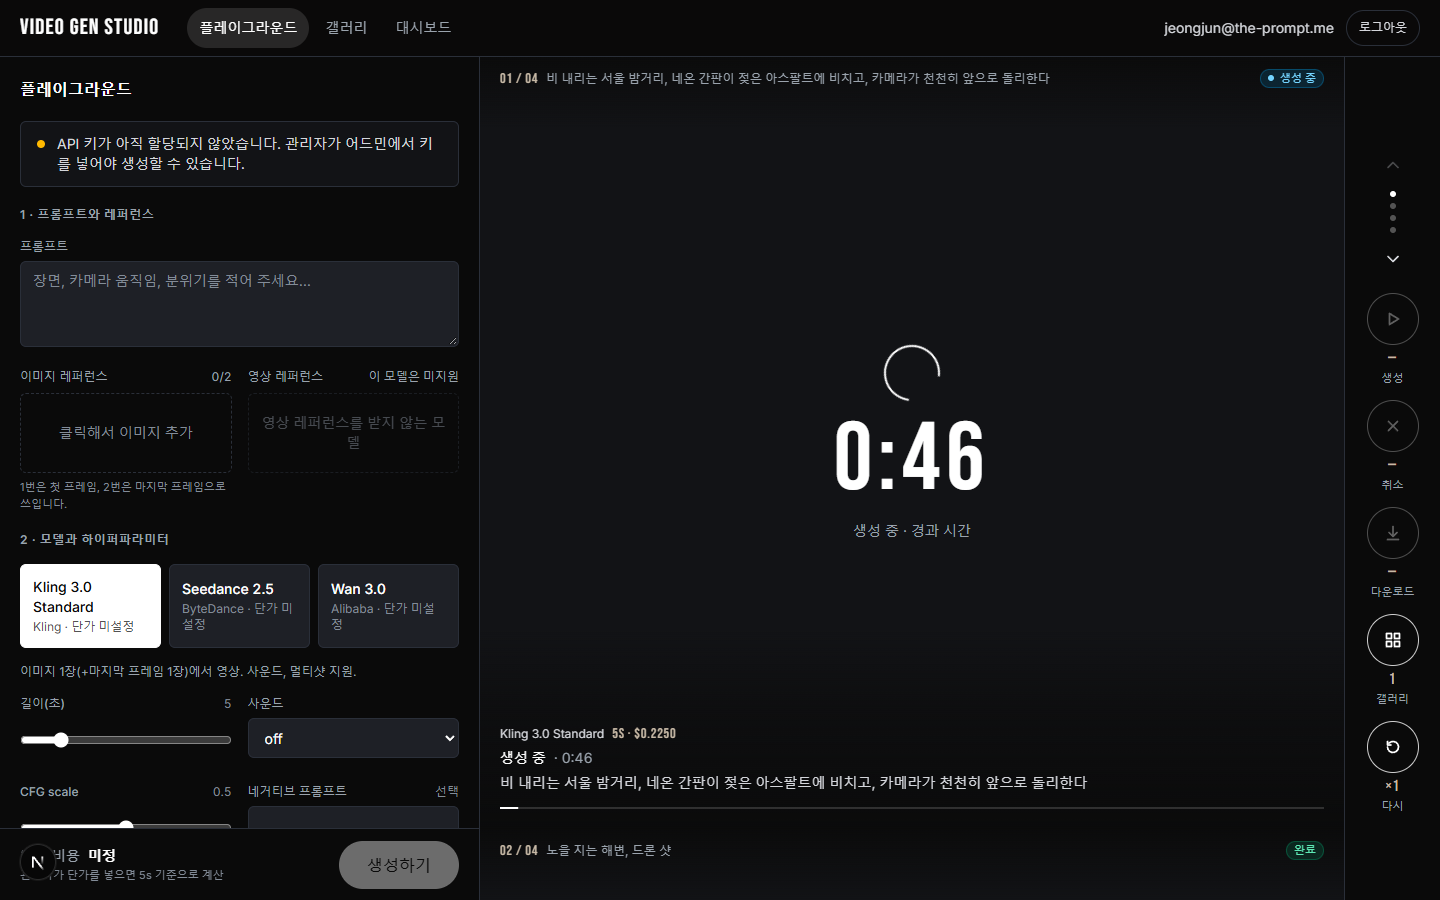
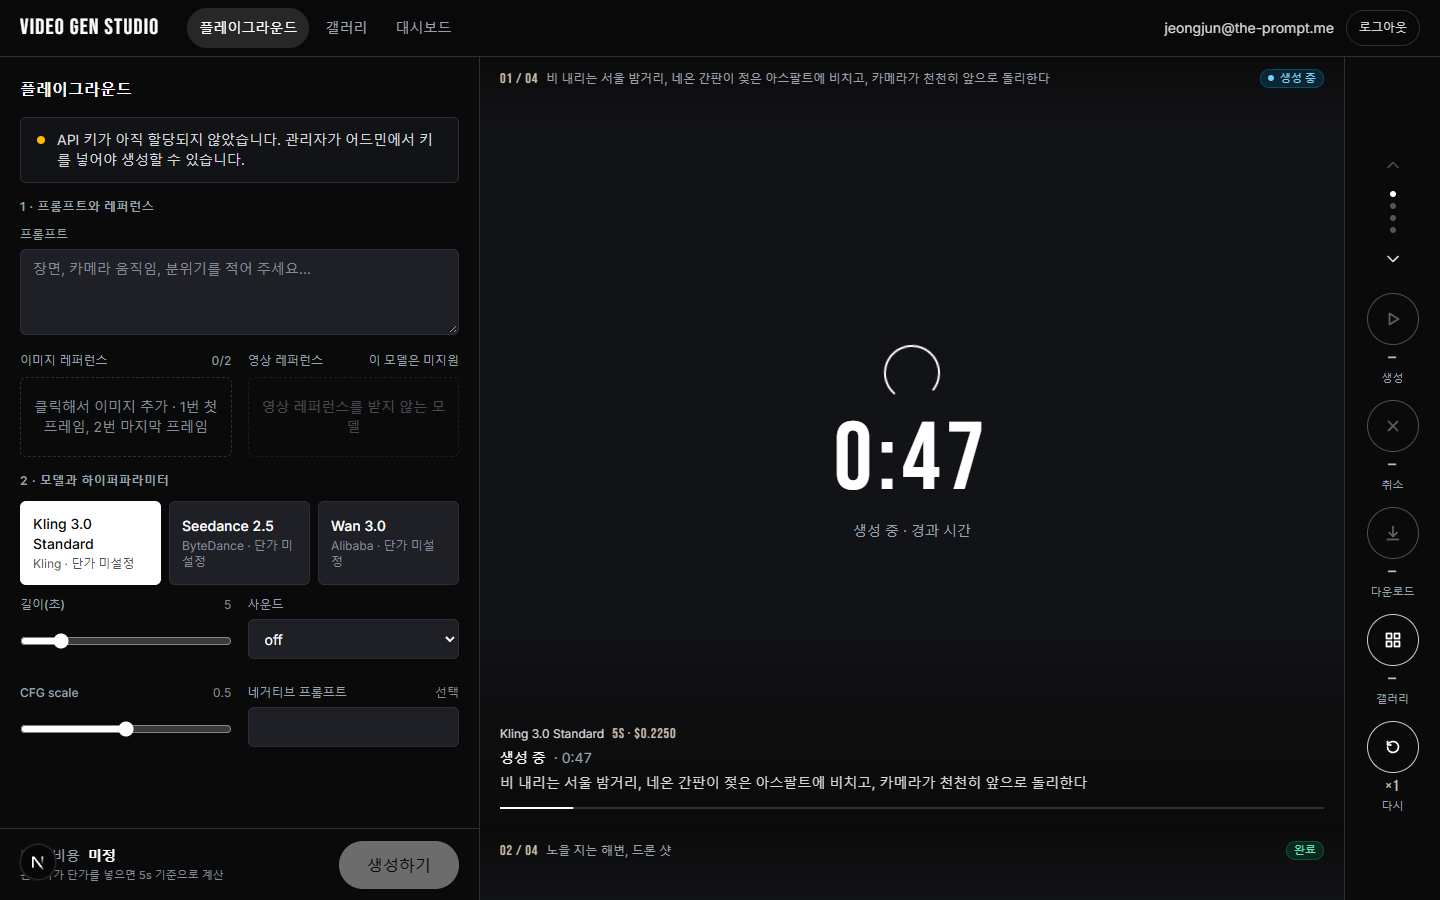
[수정] 갤러리 카운터를 실제 완료 건수로, 서랍 파라미터를 900px 안에
왜: 리뷰 판정에서 갤러리 카운터가 로드된 피드 안의 수였고, CFG·네거티브 프롬프트가 비용 바 아래로 잘렸다
무엇:
- playground/page.tsx: 사용자의 완료 생성 수를 DB에서 세어 galleryCount로 전달
- Playground.tsx: 갤러리 카운터는 서버 합계 + 세션 중 완료 전환 시 증가
- Playground.tsx: 모델 설명 문단 제거(카드 title로), 프레임 힌트를 업로드 존 문구로, 섹션 간격 축소
검증: npx tsc --noEmit 오류 없음, eslint 0 errors, 1440x900에서 비용 바 상단 828px 대비 마지막 컨트롤 하단 757px, 재캡처 가로 넘침 0·콘솔 오류 0

diff --git a/src/components/Playground.tsx b/src/components/Playground.tsx
@@ -182,7 +182,7 @@ function FeedItem({ g, index, total, active, now, modelName }: { g: PublicGenera
   );
 }
 
-export function Playground({ models, hasApiKey, largeUploads }: { models: ModelWithPrice[]; hasApiKey: boolean; largeUploads: boolean }) {
+export function Playground({ models, hasApiKey, largeUploads, galleryCount }: { models: ModelWithPrice[]; hasApiKey: boolean; largeUploads: boolean; galleryCount: number }) {
   const [modelId, setModelId] = useState(models[0]?.id ?? "");
   const model = useMemo(() => models.find((m) => m.id === modelId) ?? models[0], [models, modelId]);
   const [params, setParams] = useState<Record<string, unknown>>(() => (model ? defaultParams(model) : {}));
@@ -198,8 +198,14 @@ export function Playground({ models, hasApiKey, largeUploads }: { models: ModelW
   const [now, setNow] = useState(() => Date.now());
   const feedRef = useRef<HTMLDivElement>(null);
 
+  const [galleryTotal, setGalleryTotal] = useState(galleryCount);
+
   function upsert(item: PublicGeneration) {
-    setItems((list) => (list.some((x) => x.id === item.id) ? list.map((x) => (x.id === item.id ? item : x)) : [item, ...list].slice(0, FEED_LIMIT)));
+    setItems((list) => {
+      const prev = list.find((x) => x.id === item.id);
+      if (item.status === "completed" && prev && prev.status !== "completed") setGalleryTotal((n) => n + 1);
+      return prev ? list.map((x) => (x.id === item.id ? item : x)) : [item, ...list].slice(0, FEED_LIMIT);
+    });
   }
 
   useEffect(() => {
@@ -350,7 +356,6 @@ export function Playground({ models, hasApiKey, largeUploads }: { models: ModelW
   const canCancel = Boolean(active && active.status === "queued");
   const activeStarted = active ? new Date(active.createdAt).getTime() : 0;
   const activeIndex = active ? items.findIndex((i) => i.id === active.id) : -1;
-  const completedCount = items.filter((i) => i.status === "completed").length;
   const reuseCount = active ? items.filter((i) => i.prompt === active.prompt && i.modelId === active.modelId).length : 0;
   function goTo(i: number) {
     const feed = feedRef.current;
@@ -404,14 +409,14 @@ export function Playground({ models, hasApiKey, largeUploads }: { models: ModelW
           <Glyph label="생성" counter={model.pricePerSecUsd > 0 ? usd(estimate) : "—"} icon={I.play} active={canGenerate} disabled={!canGenerate} onClick={generate} />
           <Glyph label="취소" counter={canCancel ? fmtElapsed(now - activeStarted) : "—"} icon={I.x} disabled={!canCancel} onClick={() => active && cancel(active)} />
           <Glyph label="다운로드" counter={active?.status === "completed" && active.resultUrl ? "MP4" : "—"} icon={I.down} disabled={!active || active.status !== "completed" || !active.resultUrl} href={active?.resultUrl ?? undefined} download />
-          <Glyph label="갤러리" counter={completedCount > 0 ? String(completedCount) : "—"} icon={I.grid} href="/gallery" />
+          <Glyph label="갤러리" counter={galleryTotal > 0 ? String(galleryTotal) : "—"} icon={I.grid} href="/gallery" />
           <Glyph label="다시" counter={active ? `×${reuseCount}` : "—"} icon={I.redo} disabled={!active} onClick={() => active && reuse(active)} />
         </div>
       </section>
 
       {/* DRAWER: the form that puts the next item on the stage. */}
       <aside aria-label="생성 설정" className="order-2 flex w-full flex-col border-t border-border bg-background lg:order-1 lg:h-full lg:w-[480px] lg:shrink-0 lg:border-r lg:border-t-0">
-        <div className="min-h-0 flex-1 space-y-5 overflow-y-auto p-5">
+        <div className="min-h-0 flex-1 space-y-4 overflow-y-auto p-5">
           <h1 className="text-base font-semibold">플레이그라운드</h1>
 
           {!hasApiKey && (
@@ -421,7 +426,7 @@ export function Playground({ models, hasApiKey, largeUploads }: { models: ModelW
             </div>
           )}
 
-          <section className="space-y-4">
+          <section className="space-y-3">
             <h2 className="text-xs font-semibold tracking-wider text-muted">1 · 프롬프트와 레퍼런스</h2>
             <Field label="프롬프트" hint={prompt.length > 0 ? `${prompt.length}자` : undefined}>
               <Textarea id="prompt" rows={3} placeholder="장면, 카메라 움직임, 분위기를 적어 주세요…" value={prompt} onChange={(e) => setPrompt(e.target.value)} />
@@ -433,10 +438,9 @@ export function Playground({ models, hasApiKey, largeUploads }: { models: ModelW
                   <span className="tabular-nums">{images.length}/{imageMax}</span>
                 </div>
                 <label className="flex min-h-20 cursor-pointer items-center justify-center rounded-md border border-dashed border-border px-3 text-center text-sm text-subtle transition hover:border-foreground/60 hover:text-foreground-2 focus-within:border-foreground focus-within:text-foreground-2 focus-within:ring-2 focus-within:ring-accent/40 has-disabled:cursor-not-allowed has-disabled:opacity-60">
-                  {uploading ? "업로드 중…" : images.length >= imageMax ? `이미지 ${imageMax}장 모두 추가됨` : "클릭해서 이미지 추가"}
+                  {uploading ? "업로드 중…" : images.length >= imageMax ? `이미지 ${imageMax}장 모두 추가됨` : model.images.field === "image_url" ? "클릭해서 이미지 추가 · 1번 첫 프레임, 2번 마지막 프레임" : "클릭해서 이미지 추가"}
                   <input type="file" accept="image/jpeg,image/png,image/webp,image/gif" multiple className="sr-only" aria-label="이미지 레퍼런스 추가" disabled={uploading || images.length >= imageMax} onChange={(e) => addFiles(e.target.files, "image")} />
                 </label>
-                {model.images.field === "image_url" && <p className="mt-1.5 text-[11px] text-subtle">1번은 첫 프레임, 2번은 마지막 프레임으로 쓰입니다.</p>}
               </div>
               <div>
                 <div className="mb-2 flex items-baseline justify-between gap-3 text-xs text-muted">
@@ -469,20 +473,19 @@ export function Playground({ models, hasApiKey, largeUploads }: { models: ModelW
             )}
           </section>
 
-          <section className="space-y-4">
+          <section className="space-y-3">
             <h2 className="text-xs font-semibold tracking-wider text-muted">2 · 모델과 하이퍼파라미터</h2>
             <div className="grid gap-2 sm:grid-cols-3">
               {models.map((m) => {
                 const on = m.id === model.id;
                 return (
                   <button key={m.id} type="button" aria-pressed={on} onClick={() => { setModelId(m.id); setParams(defaultParams(m)); setRefs([]); }} className={`rounded-md border p-3 text-left transition focus:outline-none focus-visible:ring-2 focus-visible:ring-accent focus-visible:ring-offset-2 focus-visible:ring-offset-background ${on ? "border-foreground bg-foreground text-background" : "border-border bg-surface-2 hover:border-foreground/50"}`}>
-                    <div className="text-sm font-medium">{m.name}</div>
+                    <div className="text-sm font-medium" title={m.blurb}>{m.name}</div>
                     <div className={`mt-0.5 text-xs tabular-nums ${on ? "text-background/70" : "text-subtle"}`}>{m.vendor} · {m.pricePerSecUsd > 0 ? `${usd(m.pricePerSecUsd)}/s` : "단가 미설정"}</div>
                   </button>
                 );
               })}
             </div>
-            <p className="text-xs text-muted">{model.blurb}</p>
             <div className="grid gap-4 sm:grid-cols-2">
               {model.params.map((p) => (
                 <ParamInput key={p.key} spec={p} value={params[p.key]} onChange={(v) => setParams((s) => ({ ...s, [p.key]: v }))} />

diff --git a/src/app/(app)/playground/page.tsx b/src/app/(app)/playground/page.tsx
@@ -1,3 +1,4 @@
+import { and, count, eq } from "drizzle-orm";
 import { getDb, schema } from "@/db";
 import { getCurrentUser } from "@/lib/auth";
 import { CATALOG } from "@/lib/catalog";
@@ -9,6 +10,9 @@ export default async function PlaygroundPage() {
   const user = await getCurrentUser();
   const db = getDb();
   const rows = await db.select().from(schema.models);
+  const [{ completed }] = user
+    ? await db.select({ completed: count() }).from(schema.generations).where(and(eq(schema.generations.userId, user.id), eq(schema.generations.status, "completed")))
+    : [{ completed: 0 }];
   const byId = new Map(rows.map((r) => [r.modelId, r]));
   const models = CATALOG.filter((m) => byId.get(m.id)?.enabled !== false).map((m) => ({
     ...m,
@@ -20,6 +24,7 @@ export default async function PlaygroundPage() {
       models={models}
       hasApiKey={Boolean(user?.apiKeyEnc)}
       largeUploads={Boolean(process.env.BLOB_READ_WRITE_TOKEN)}
+      galleryCount={Number(completed)}
     />
   );
 }
